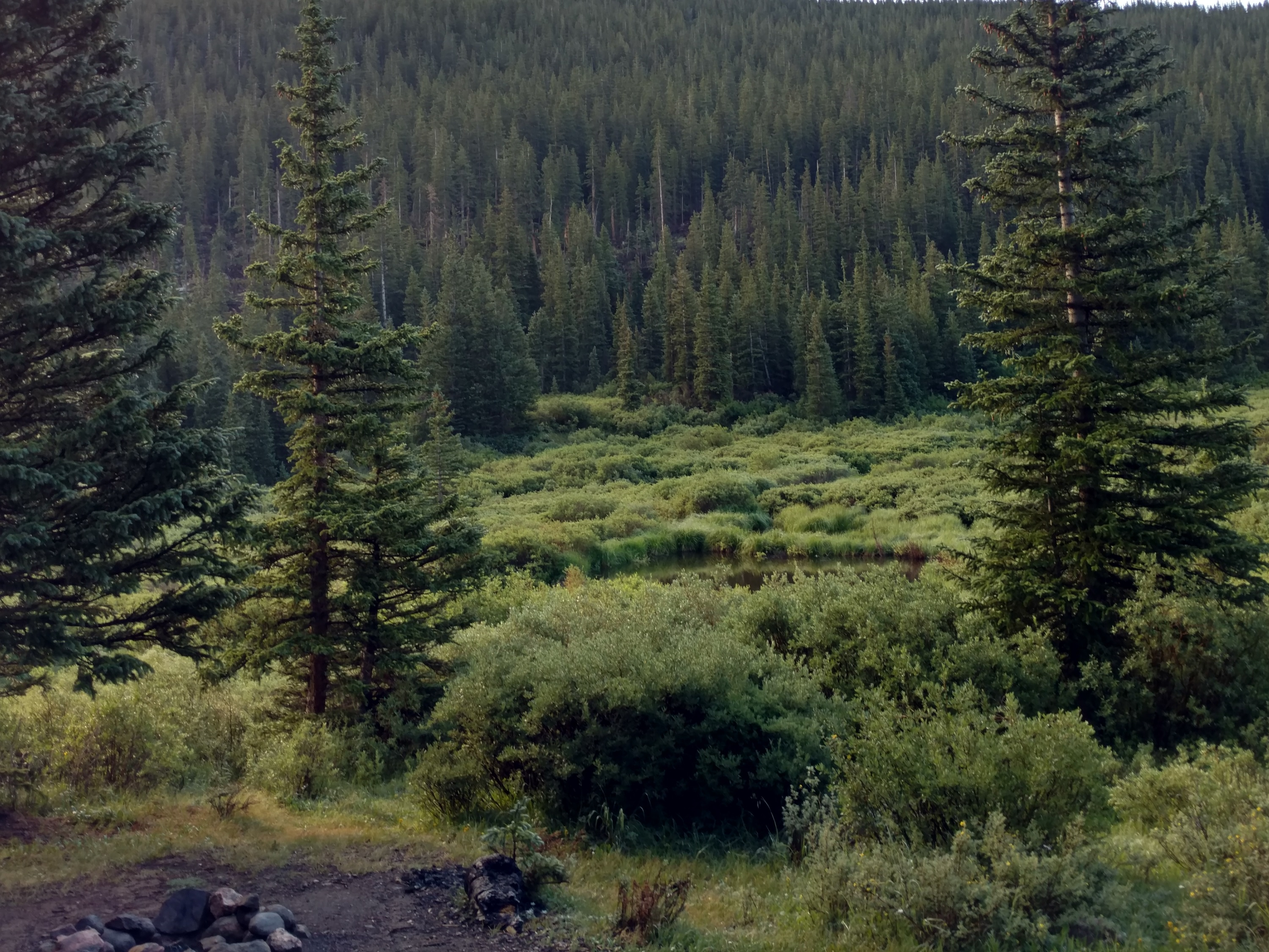
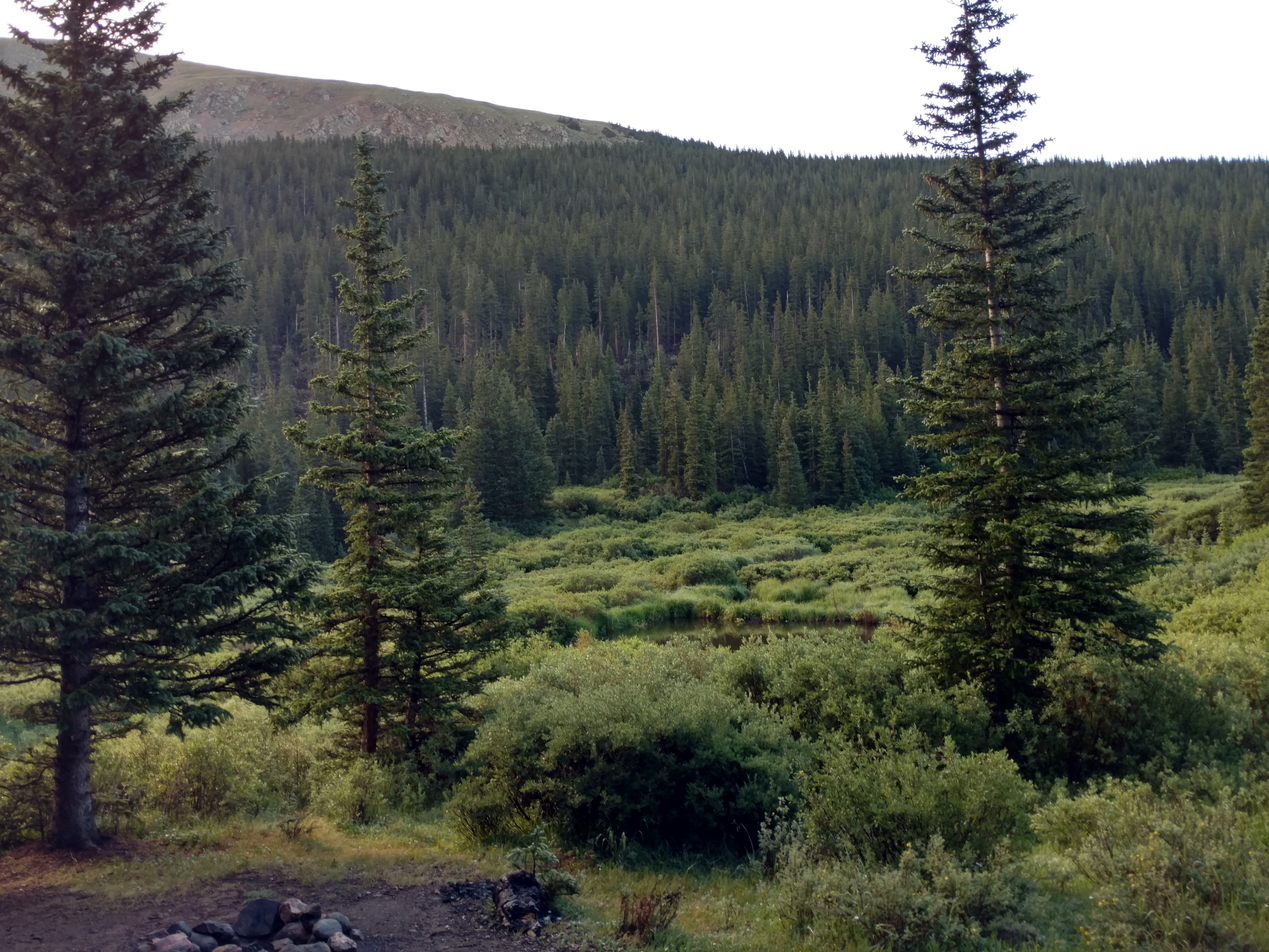
Visual changes
Re-cropped background images, lightened background, moved navigation bar back down.

diff --git a/general.css b/general.css
@@ -1,7 +1,6 @@
 html {
     font-family:'Heebo';
     min-height: 100%;
-    position: relative;
 }
 
 body{  
@@ -43,19 +42,19 @@ body{
     .music_button{width: calc(25% - 4px);}
 }
 
-h2,h3,.contact_links a,.pro_pic{
+h2,h3,.contact_links a,.pro_pic,html,#rectangle{
     position:relative;
 }
 
 h2,h3{
     padding-right: 120px;
-    white-space: nowrap;
 }
 
 h1{
-    margin: 18px 0 0px 0;
-    left:0px;
-    top:20px;
+    line-height: 128px;
+    height: 128px;
+    vertical-align: middle;
+    margin:0;
     float:left;
     text-align: left;
     color:#EEEEE7;
@@ -66,34 +65,33 @@ h1{
 
 h2{
     top: 8px;
-    margin-top: 0px;
+    margin: 0 0 4px;
     font-size: 23px;
-    color:#EEEEE7;
+    color:rgba(255,255,255,0.95);
     width: auto;
 }
 
 h3{
-    top: -15px;
-    margin-top: 0px;
+    top: 0;
+    margin: 0;
     font-size: 13px;
     color:#d6d6cf;
 }
 
 #top_bar{
+    position: relative;
     top:0px;
     left: 0px;
     right 0px;
     max-width:1500px;
     margin:0px auto 0px auto;
     height: 128px;
-    padding: 30px 15px 0px 15px;
+    padding: 0px 15px 0px 15px;
 }
 
 /* Format for article content */
 h4{
-    margin-top: 0px;
-    margin-bottom: 5px;
-    padding-bottom: 5px;
+    margin: 0 0 5px 0;
     font-size: 23px;
     color:#333;
     border-bottom: 2px dotted;
@@ -116,10 +114,12 @@ p{
 
 /* Content for navigation tabs */
 .contact_links{
-    margin: 1px auto 0 auto;
+    margin: 0 auto;
     max-width:1500px;
-    height: 29px;
+    height: 30px;
     white-space: nowrap;
+    vertical-align: middle;
+    line-height: 30px;
 }
 
 .contact_link_individual {
@@ -127,19 +127,15 @@ p{
 }
 
 #rectangle{
-    position: absolute;
     background:rgba(255,255,255,0.95);
     left: 0px;
     right: 0px;
     height:30px;
-    top:0px;
-    z-index: 0;
-    margin: 0 auto;
-    padding: 0 15px 0 15px;
+    padding: 0 15px;
 }
 
 .article_media_box{
-    margin: 5px 5px 5px 5px;
+    margin: 5px;
     display: inline-block;
 }
 
@@ -150,31 +146,32 @@ p{
 }
 
 #tab{
-    padding: 10px 15px 0 15px;
+    position: relative;
+    padding: 0px 15px;
     height: auto;
     color: rgba(50,50,50,.9);
     font-size: 16px;
     z-index: 1;
-    margin: 0 auto 0 auto;
+    margin: 0 auto;
     background: rgba(255,255,255,0.95);
 }
 
 .personal_info{
-    height: 120px;
+    height: 128px;
     white-space: nowrap;
 }
 
 .pro_pic{
-    width: 101px;
-    height: 101px;
+    width: 100px;
+    height: 100px;
     float:right;
     background: url(GENERAL_IMAGES/profile.jpg);
-    background-size: 101px 101px;
+    background-size: 100px 100px;
     background-repeat: no-repeat;
     top: 12px;
     right: 5px;
     border-radius: 100%;
-    border: 2px solid #a1a1a1;
+    border: 2px solid rgba(255,255,255,0.95);
 }
 
 .obfuscate { unicode-bidi: bidi-override; direction: rtl; }
@@ -187,8 +184,7 @@ p{
     left:0;
     right:0;
     margin: 0 auto;
-    background: #222;
-    background: rgba(30,30,30,0.9);
+    background: rgba(30,30,30,0.8);
 }
 
 audio {
@@ -201,23 +197,18 @@ audio {
     bottom:0;
     left:0;
     right:0;
-    margin: 0 auto;
-    margin-top: 20px;
-    margin-bottom: 20px;
-    background: #222;
-    background: rgba(30,30,30,0);
-    color: rgba(255,255,255,.8);
-    text-align: center
+    color: rgba(255,255,255,.85);
+    text-align: center;
+    line-height: 40px;
+    height:40px;
 }
 
 .music_button, .music_button_half{
-    margin-bottom: 4px;
-    margin-left: 2px;
-    margin-right: 2px;
+    margin: 0 2px 4px 2px;
     display:inline-block;
     font-size: 20px;
     height:45px;
-    color:white;
+    color:rgba(255,255,255,0.95);
     border:0;
 }
 
